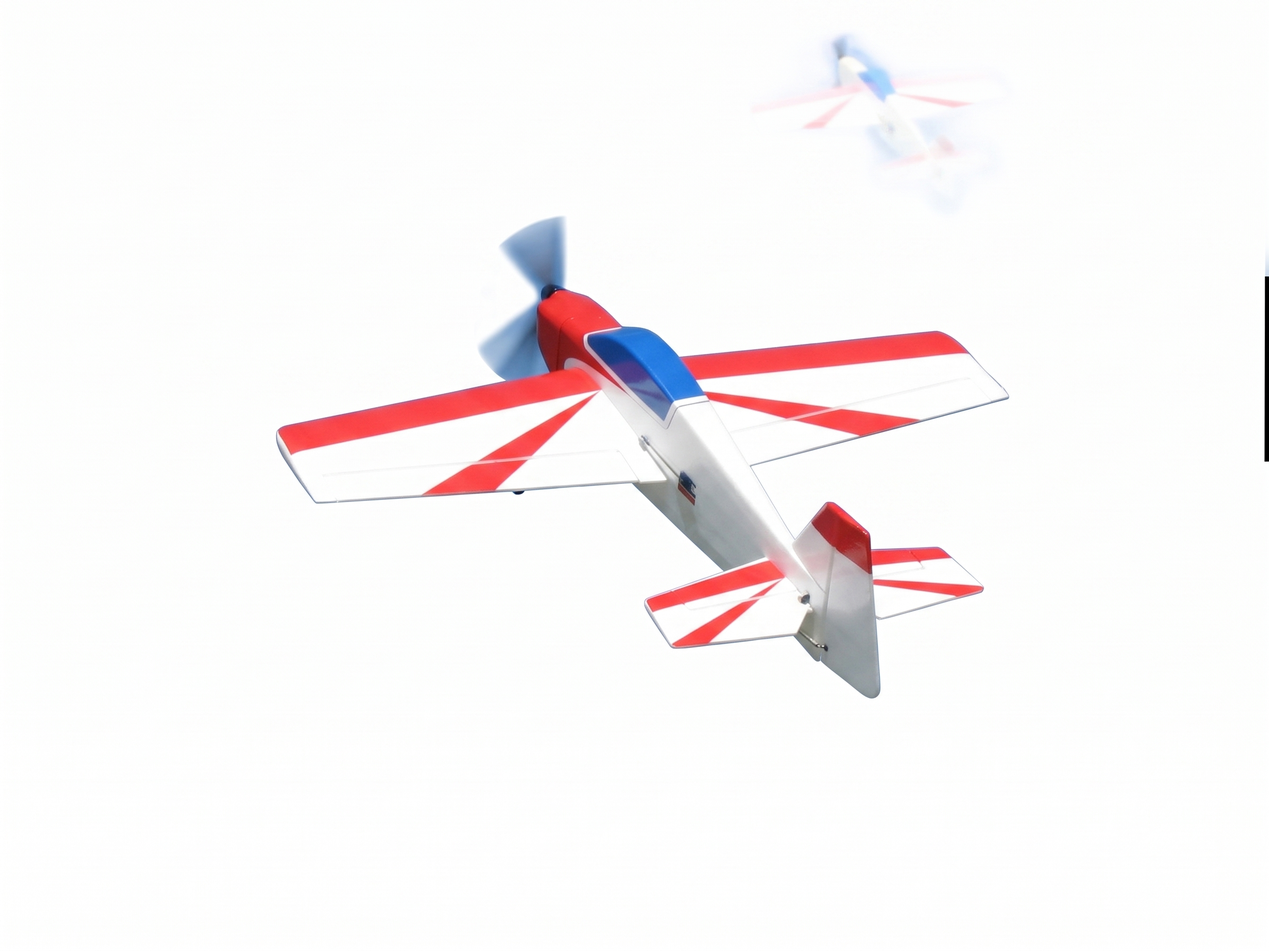
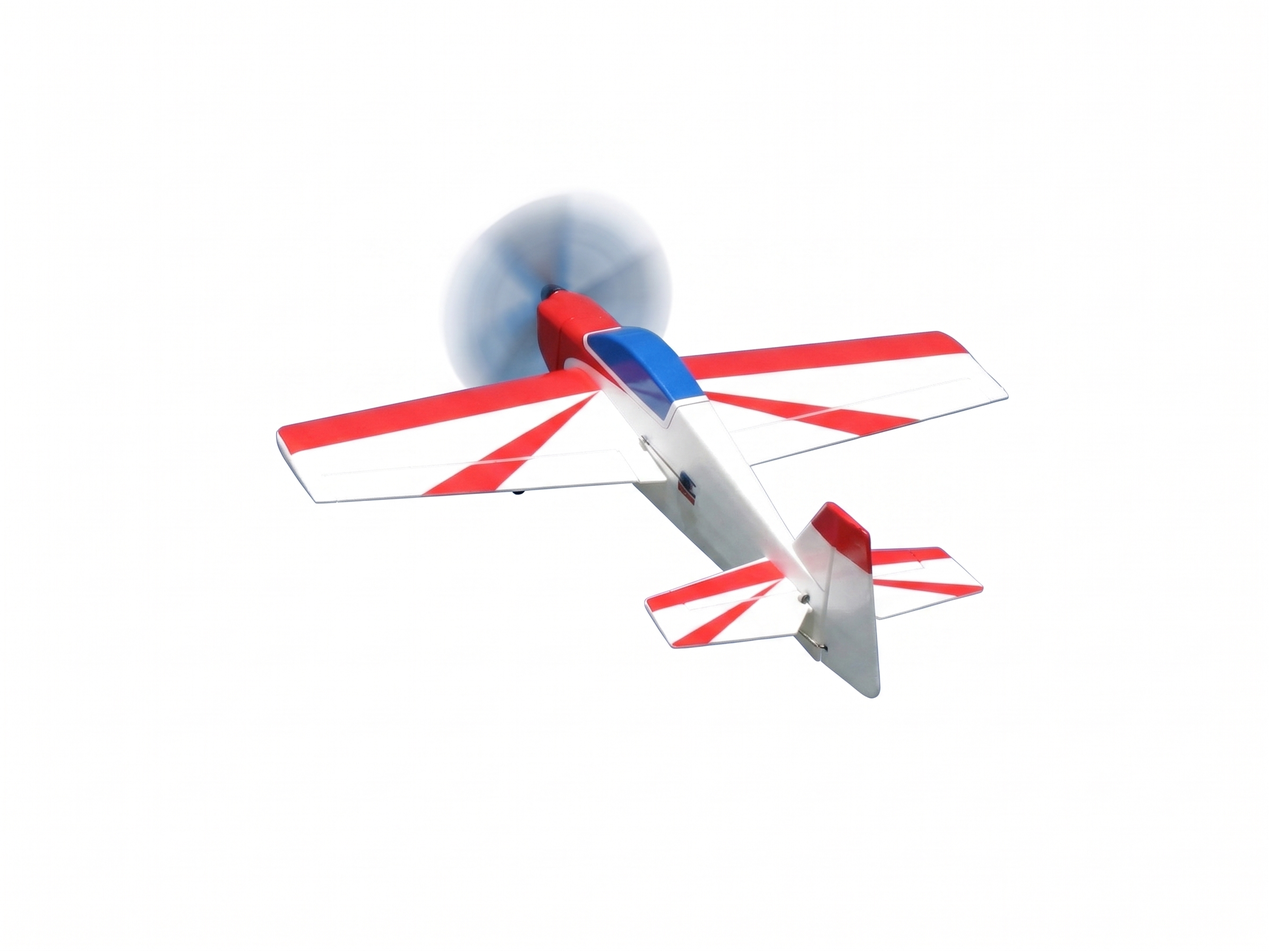
Hero model: updated photo, translucent prop disc

diff --git a/index.html b/index.html
@@ -57,7 +57,7 @@
     <div class="hero__sky" aria-hidden="true"></div>
     <div class="hero__clouds" aria-hidden="true"></div>
 
-    <img class="hero__plane" src="img/hero-plane.png" alt="Пілотажна модель клубу в польоті" width="900" height="597">
+    <img class="hero__plane" src="img/hero-plane.png" alt="Пілотажна модель клубу в польоті" width="900" height="625">
 
     <button class="hero__arrow hero__arrow--prev" aria-label="Попередній слайд">&#8249;</button>
     <button class="hero__arrow hero__arrow--next" aria-label="Наступний слайд">&#8250;</button>
